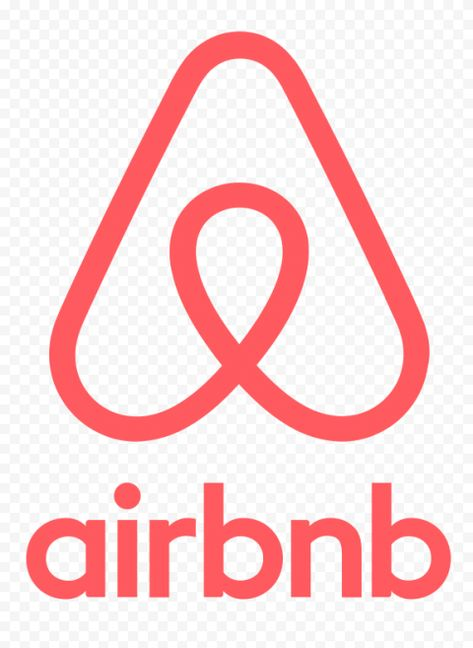
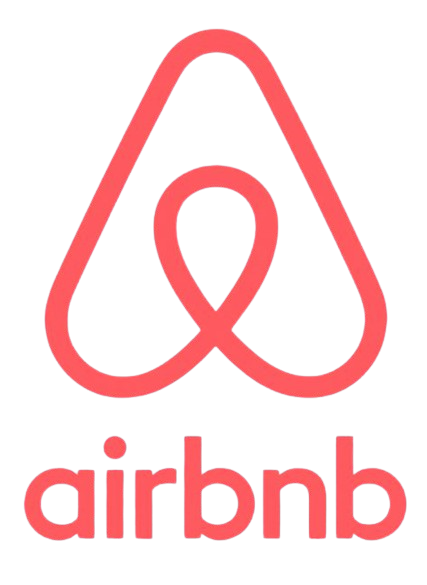
"Updated App.jsx to import and render Navbar and Hero components, replaced hello world text. Added airbnb.jpg image. Removed navbar.jsx file."

diff --git a/frontend/src/App.jsx b/frontend/src/App.jsx
@@ -1,7 +1,14 @@
-export default function App() {
+import React from 'react'
+import Navbar from './components/NavigationBar'
+import Hero from './components/Hero'
+
+const App = () => {
   return (
-    <h1 className="text-3xl font-bold underline">
-      Hello world!
-    </h1>
+    <div>
+      <Navbar />
+      <Hero />
+    </div>
   )
 }
+
+export default App

diff --git a/frontend/src/components/NavigationBar.jsx b/frontend/src/components/NavigationBar.jsx
@@ -1,0 +1,12 @@
+import React from 'react';
+import logo from '../assets/Images/airbnb.jpg';
+
+const Navbar = () => {
+  return (
+    <nav className='bg-white shadow-md py-2 px-8'>
+        <img src={logo} alt="airbnb" className='size-20'/>
+    </nav>
+  );
+}
+
+export default Navbar;

diff --git a/frontend/src/components/Hero.jsx b/frontend/src/components/Hero.jsx
@@ -1,0 +1,9 @@
+import React from 'react'
+
+const Hero = () => {
+  return (
+    <div>Hero</div>
+  )
+}
+
+export default Hero
